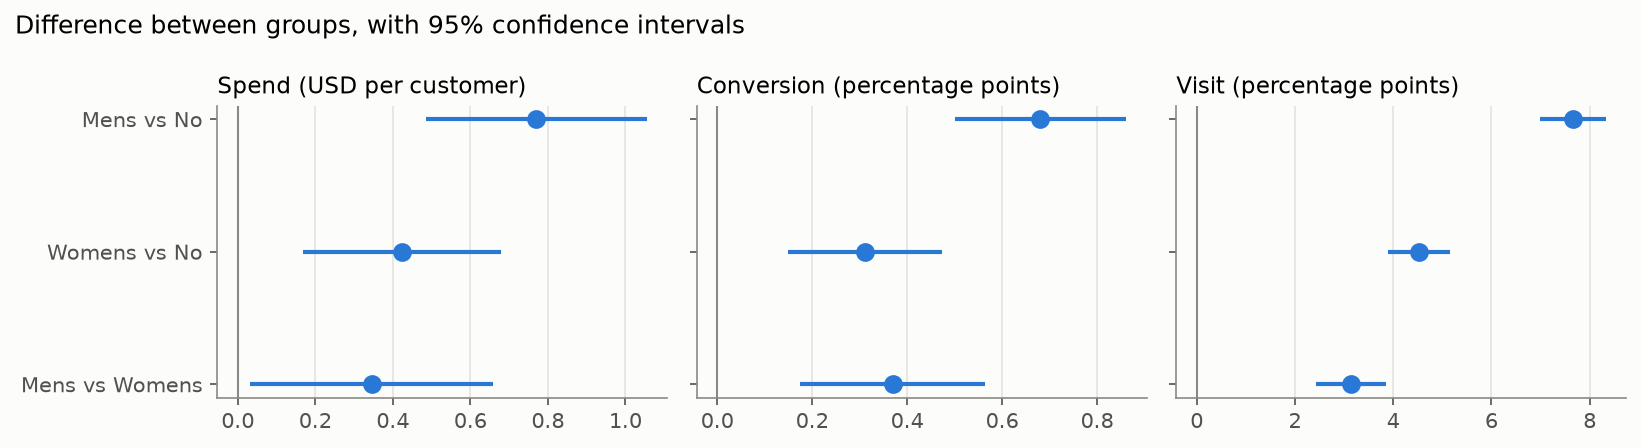
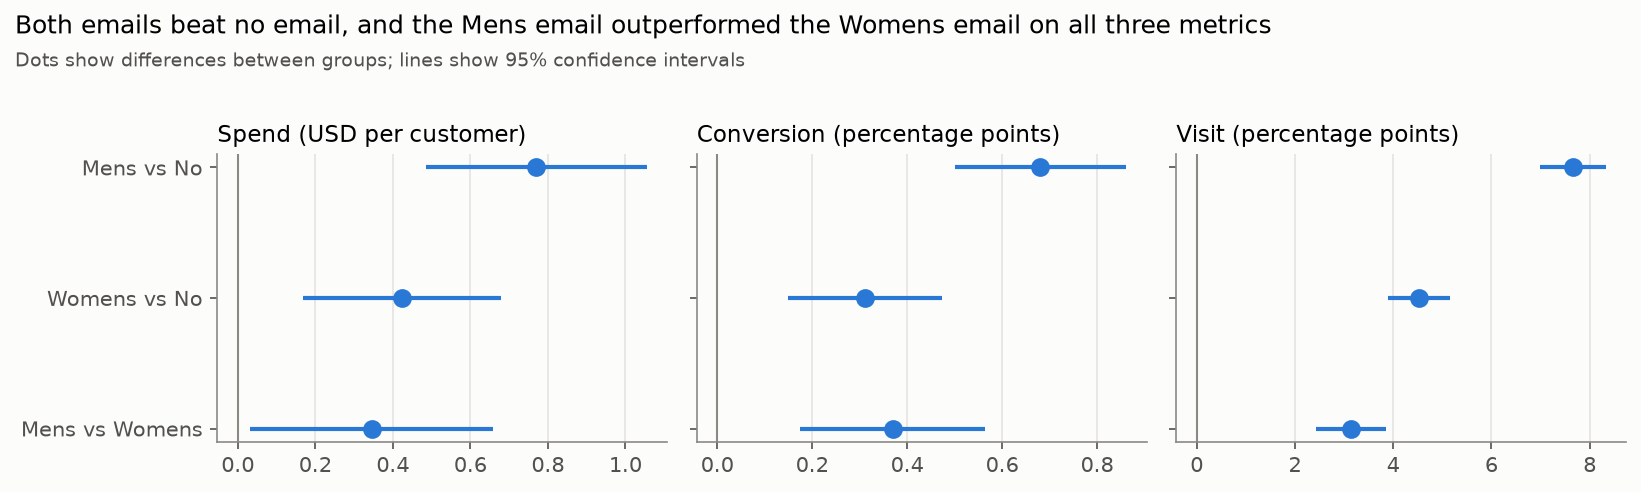
Use conclusion as chart title and clarify repeated-row reasoning

diff --git a/reports/00_01_eda_summary.md b/reports/00_01_eda_summary.md
@@ -8,7 +8,7 @@ This is a first description of the data. It uses overall figures only: the exper
 
 - **Missing values:** there are none.
 - **Misspelling:** "Suburban" is spelled `Surburban` in every suburban row.
-- **Repeated rows:** 6,562 rows exactly repeat an earlier row. All of them have zero spend, and 99.5% have `history` at its minimum of $29.99. With no customer ID, they cannot be separated from different customers who share the same values. Removing them would raise conversion from 0.903% to 1.006%, so **they are kept**.
+- **Repeated rows:** 6,562 rows exactly repeat an earlier row. All of them have zero spend, and 99.5% have `history` at its minimum of $29.99. With no customer ID, they cannot be told apart from different customers who share the same values, so **they are kept**. Removing them would change the results: conversion would rise from 0.903% to 1.006%.
 - **Outcome logic:** the three outcomes are consistent. Every purchase comes with a website visit, and spend is above zero exactly when `conversion` is 1.
 - **Group sizes:** the three groups have 21,387, 21,307 and 21,306 customers. A formal sample-ratio test is in the [experiment validity checks](00_02_experiment_validity.md).
 

diff --git a/README.md b/README.md
@@ -44,7 +44,7 @@ These are the original questions from the challenge, quoted verbatim. Answers wi
 | 4 | If you had to eliminate 10,000 customers from receiving an e-mail campaign, which customers would you suppress from the campaign? Why? | Not yet answered |
 | 5 | Did the Mens version of the e-mail campaign perform different than the Womens version of the e-mail campaign, across various customer segments? | Not yet answered |
 | 6 | Did the campaigns perform different when measured across different metrics, like Visitors, Conversion, and Total Spend? | Not yet answered |
-| 7 | Did you observe any anomalies, or odd findings? | Not yet answered |
+| 7 | Did you observe any anomalies, or odd findings? | Partly answered: [spend stops at exactly $499 for 12 buyers](reports/00_01_eda_summary.md), which may indicate a cap. |
 | 8 | Which audience would you target the Mens version to, and the Womens version to, given the results of the test? What data do you have to support your recommendation? | Not yet answered |
 
 ## Progress
